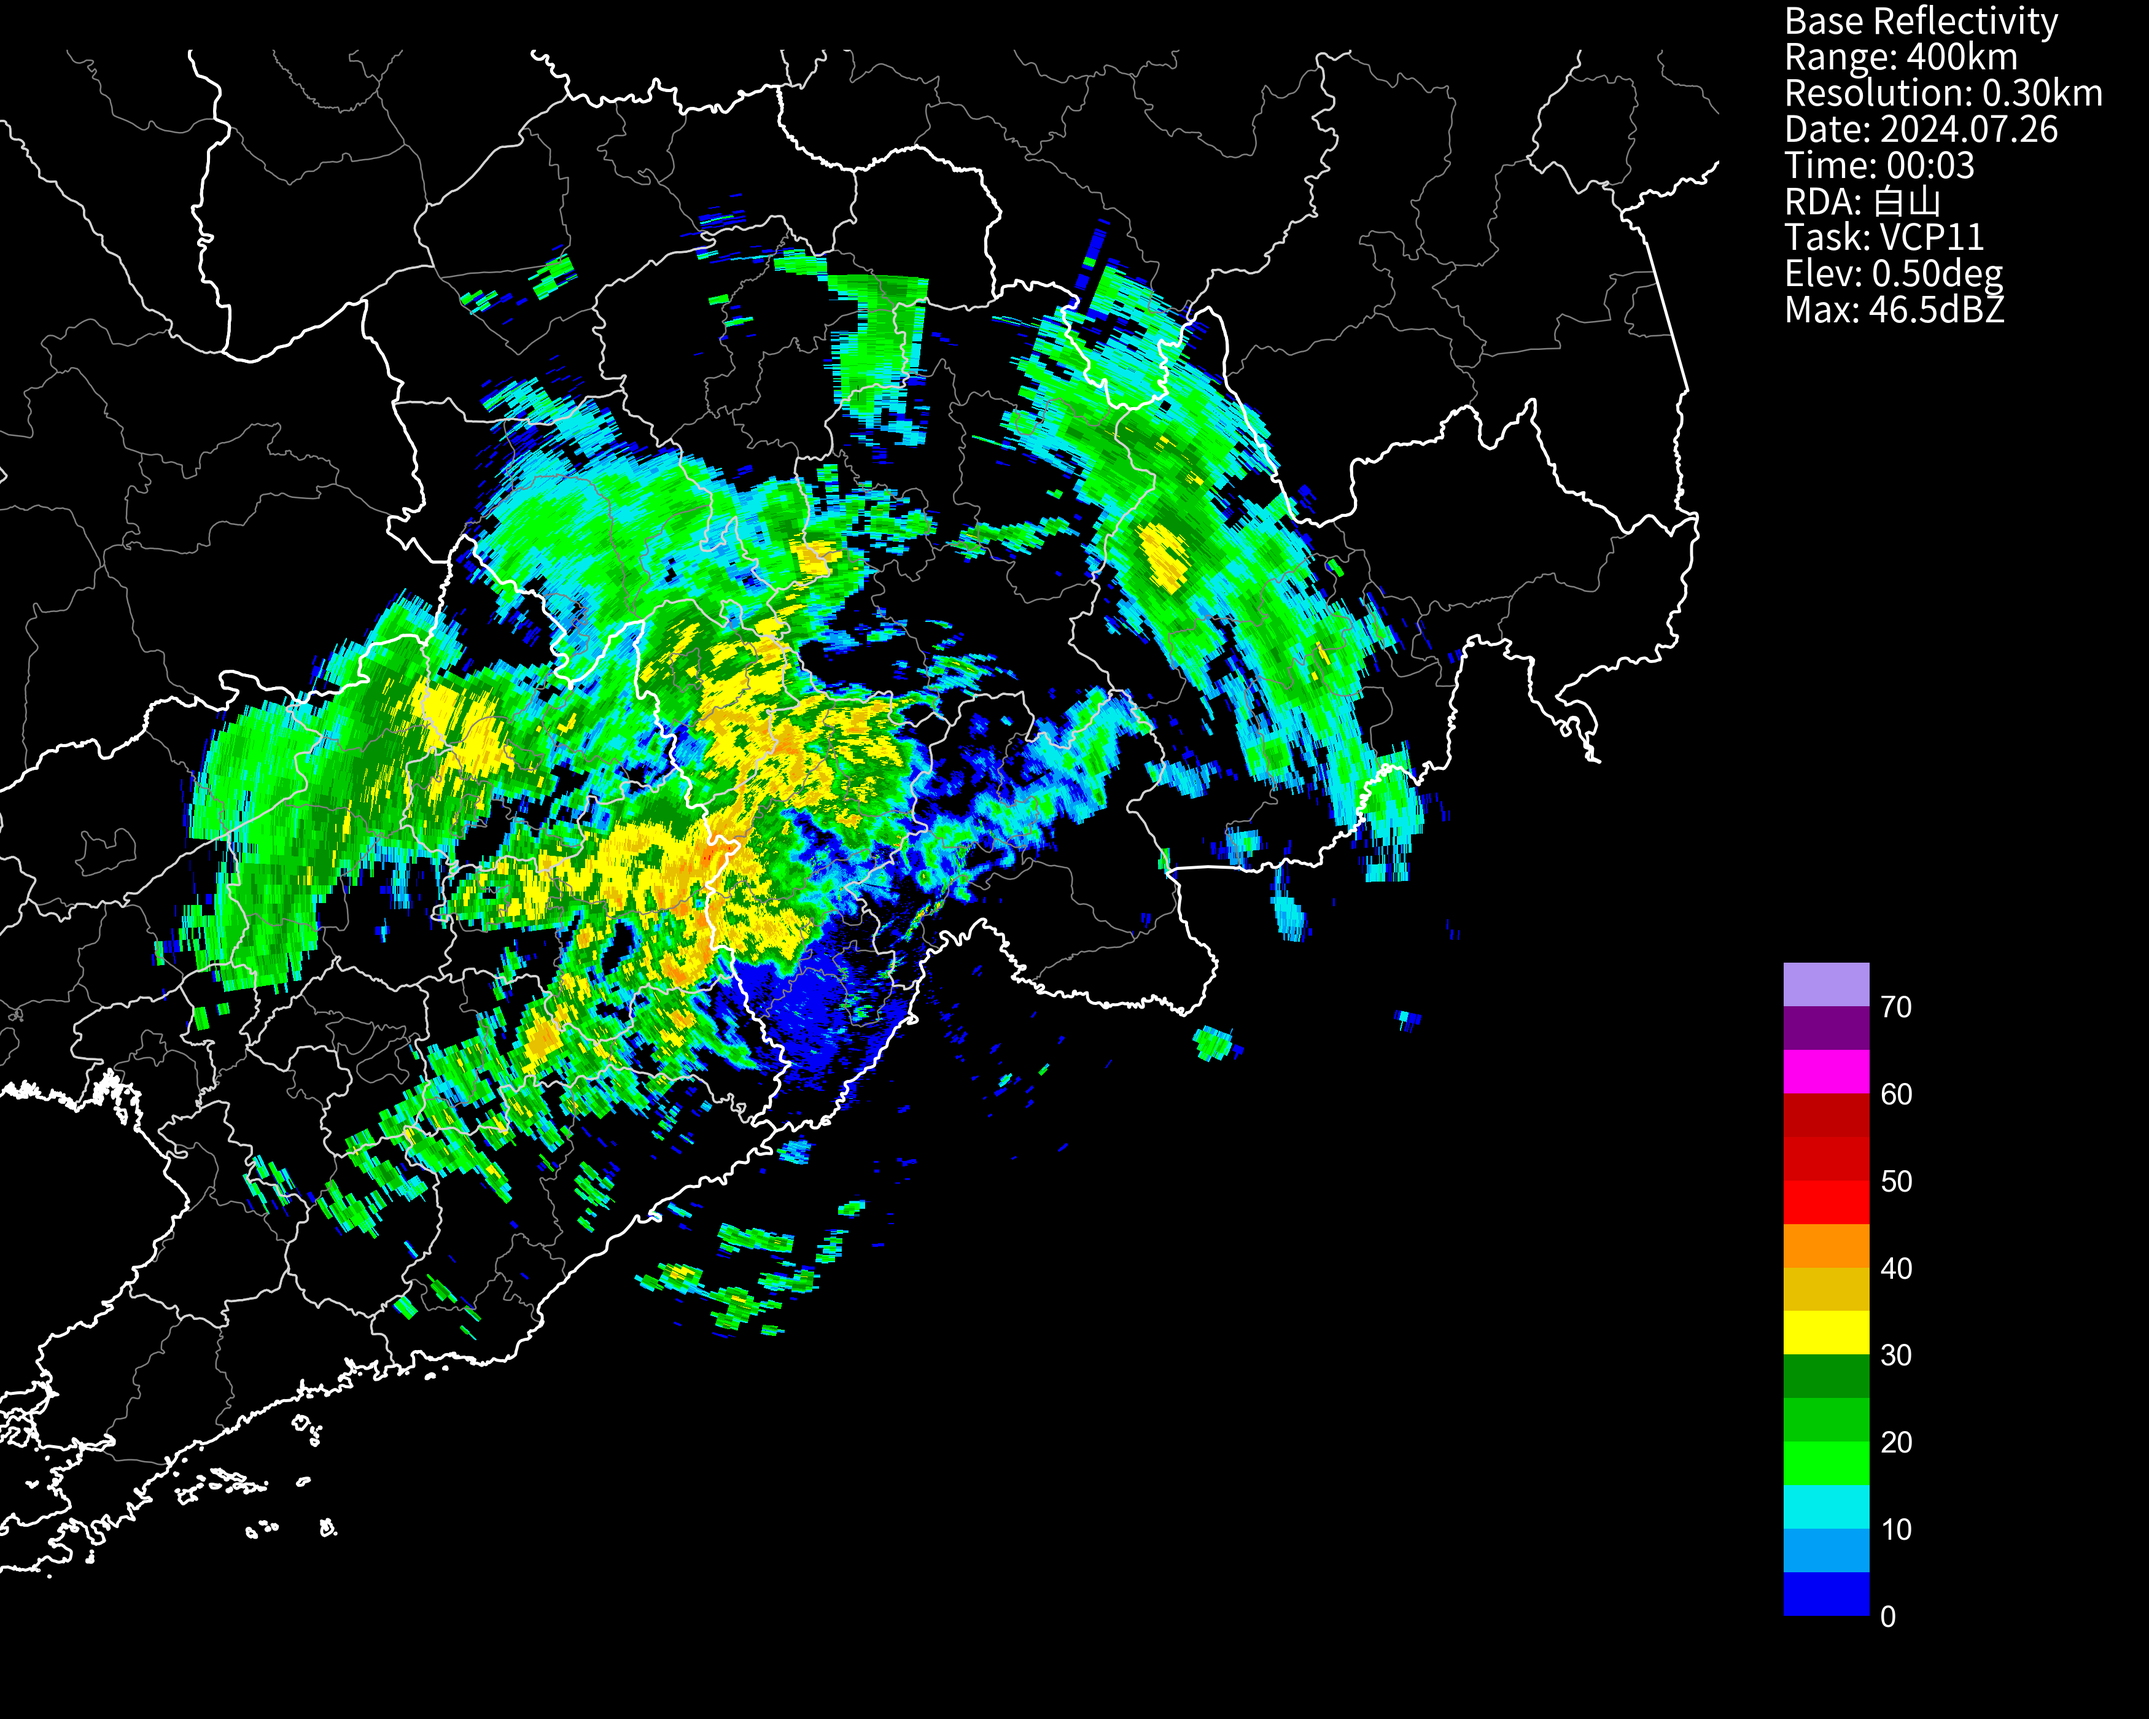
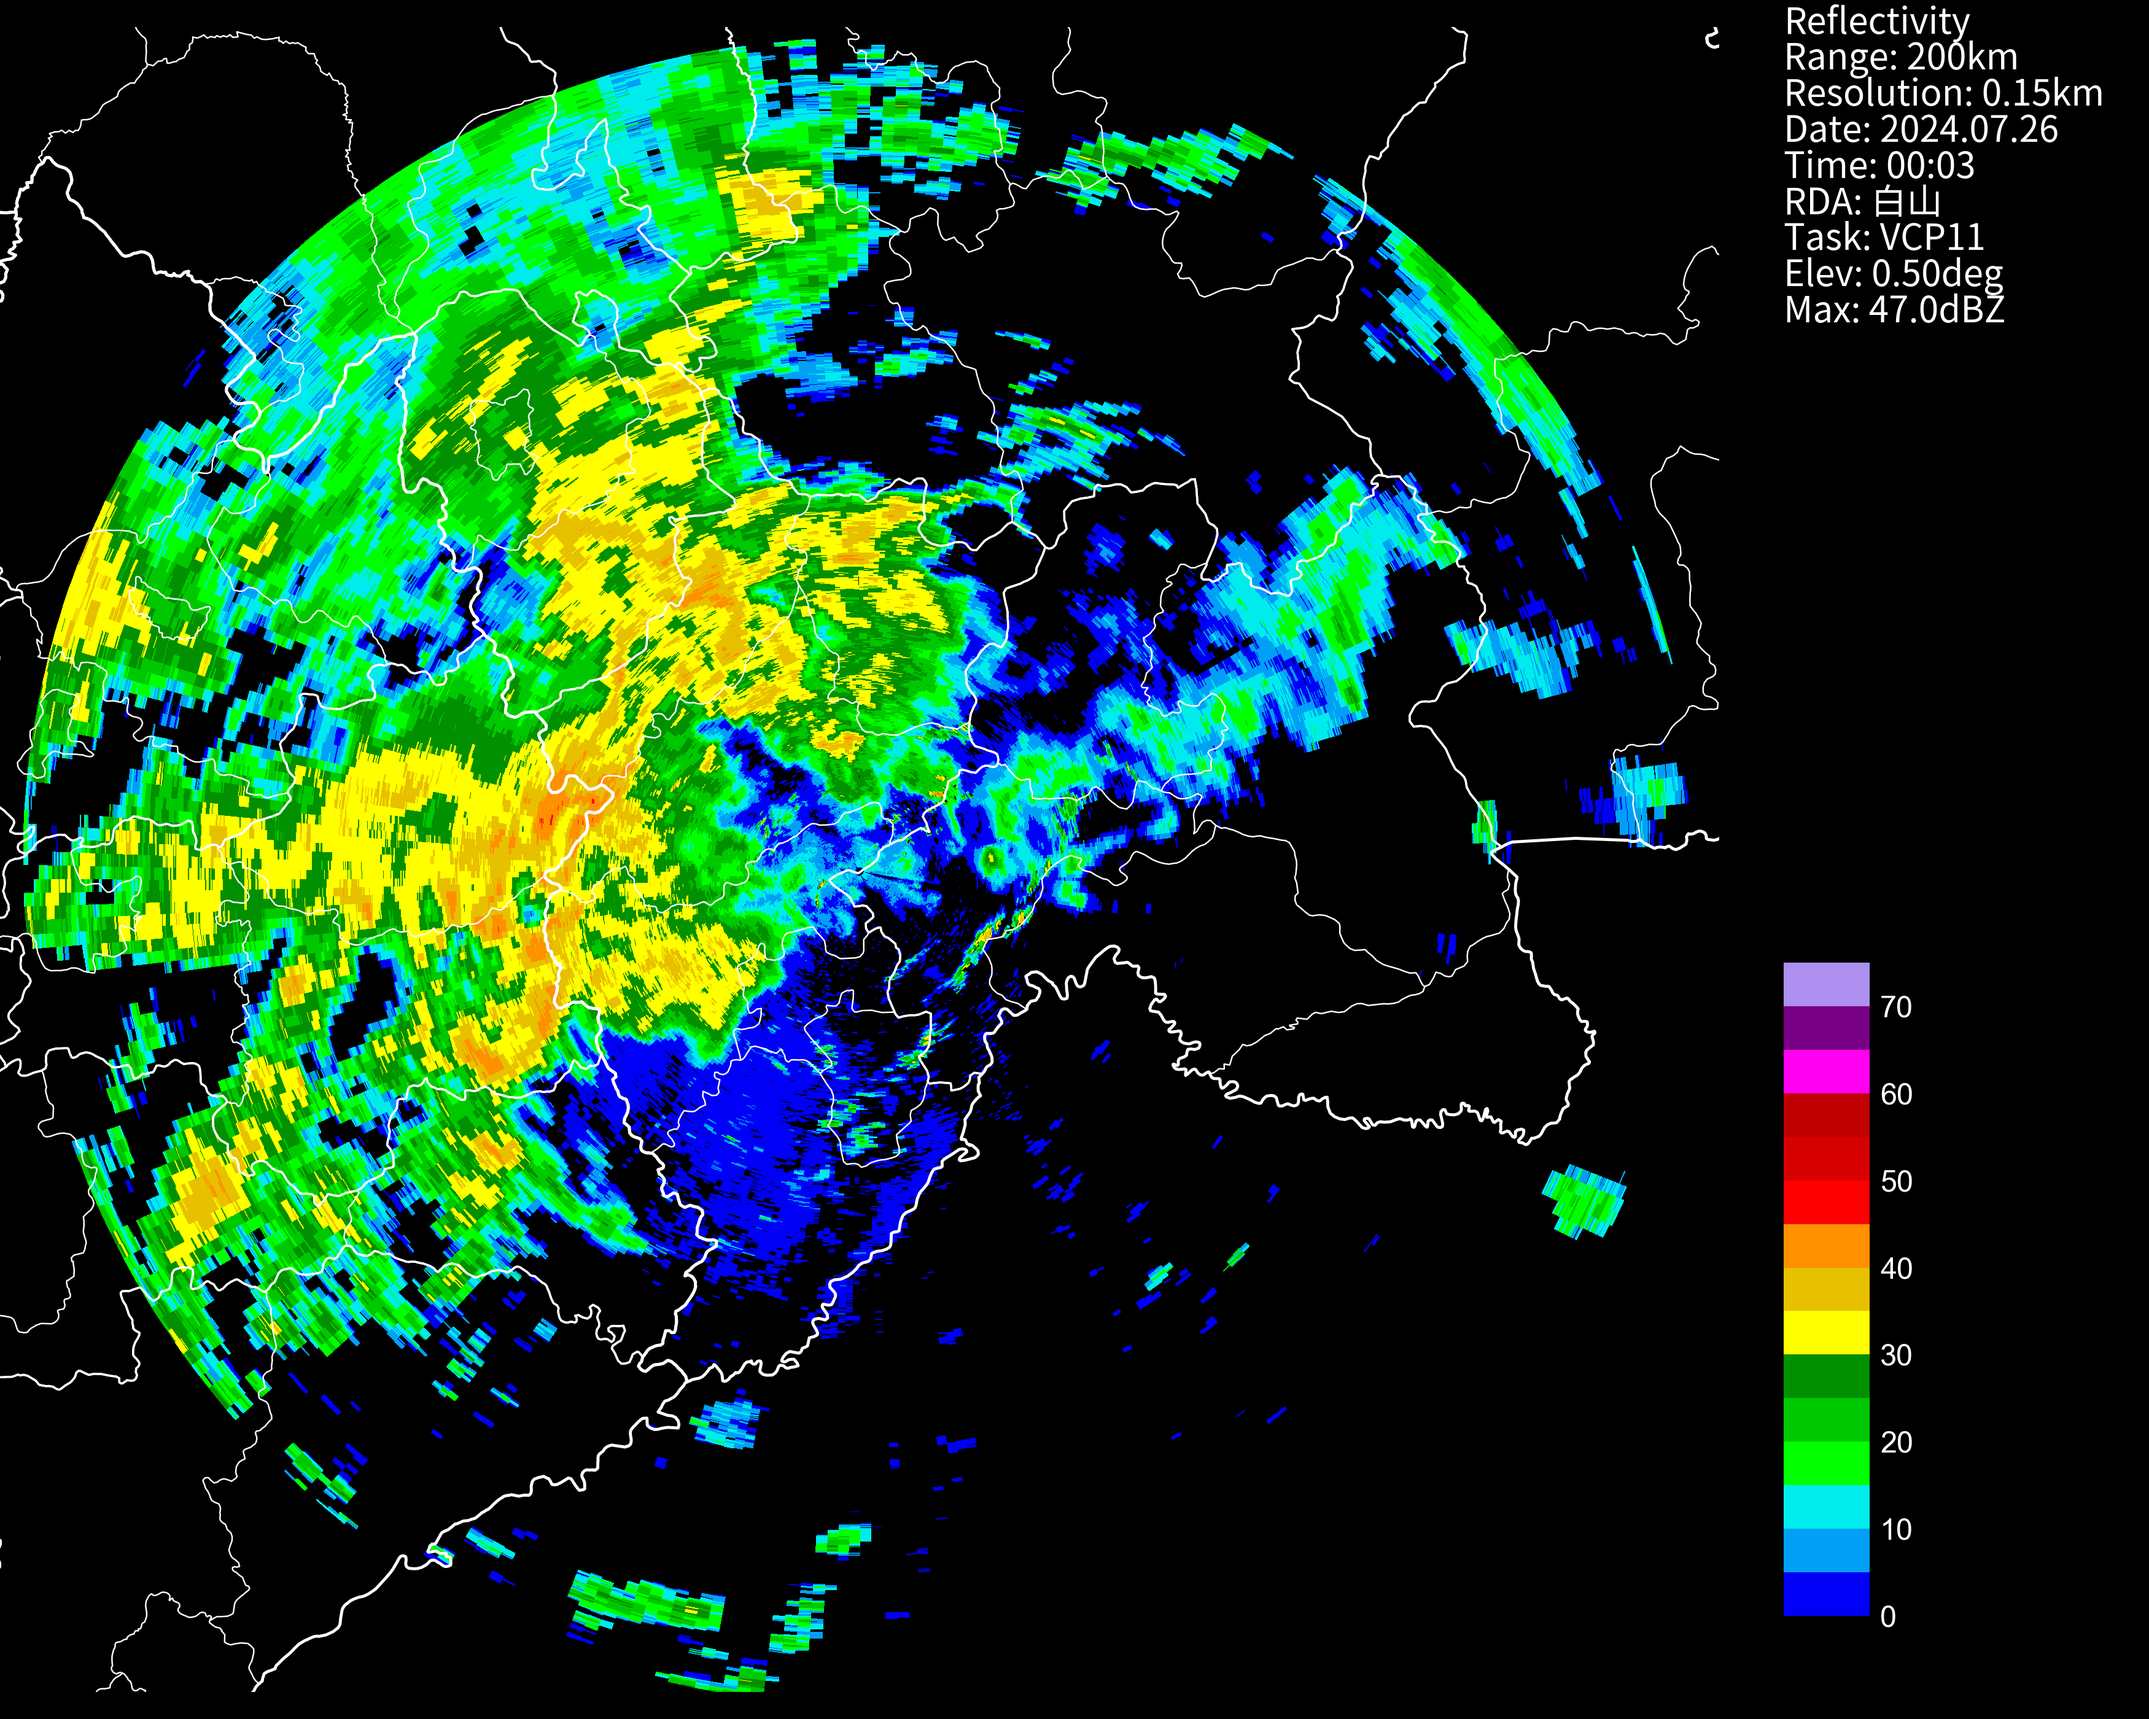
Update file paths and visualization styles in draw_pup.py and renderer.py; modified output image test1.png.

diff --git a/draw_pup.py b/draw_pup.py
@@ -1,6 +1,6 @@
 import cinrad
-file = r"O:\DATA\RADA\DOR\L3\PUP_ROSE2\2024\20240726\Z9439\R\Z_RADR_I_Z9439_20240726000317_P_DOR_CC_R_300_400_5_FMT.bin"
+file = r"O:\DATA\RADA\DOR\L3\PUP_ROSE2\2024\20240726\Z9439\R\Z_RADR_I_Z9439_20240726000317_P_DOR_CC_R_150_200_5_FMT.bin"
 f = cinrad.io.read_auto(file)
 data = f.get_data()
-fig=cinrad.visualize.PPI(data)
+fig=cinrad.visualize.PPI(data,style='black')
 fig('test1.png')

diff --git a/radar/renderer.py b/radar/renderer.py
@@ -68,7 +68,7 @@ def render_to_cache(bin_path: str, cache_dir: Path) -> Path:
         try:
             f = cinrad.io.read_auto(str(src))
             data = f.get_data()
-            fig = cinrad.visualize.PPI(data)
+            fig = cinrad.visualize.PPI(data,style='white')
             fig(str(tmp))
             tmp.replace(out)
             return out
